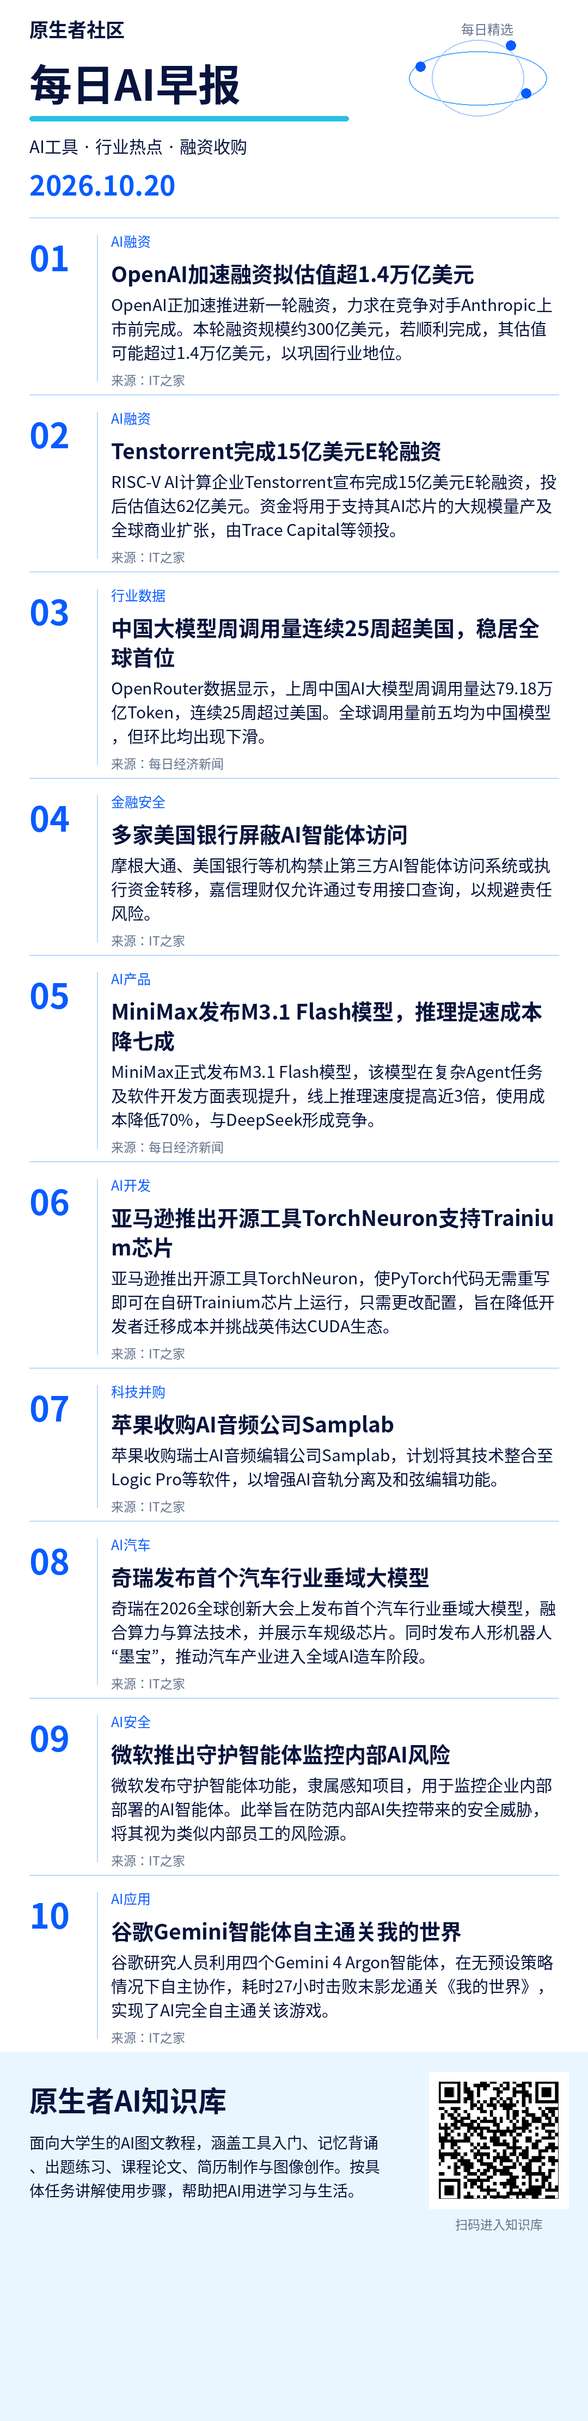
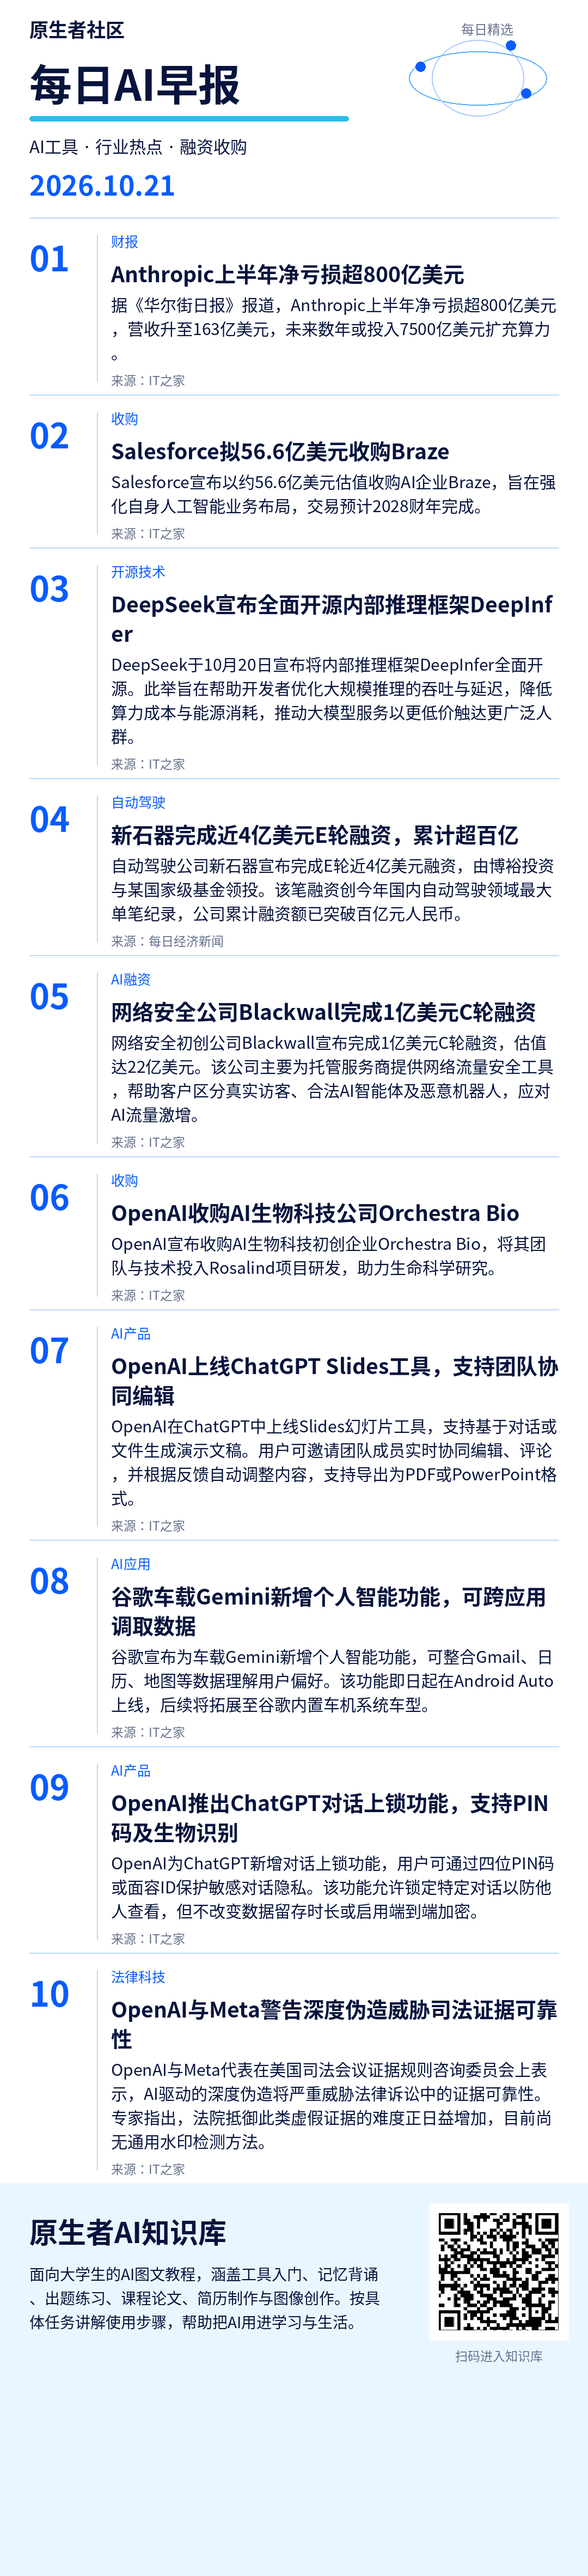
Publish mobile brief 2026-10-21

diff --git a/index.html b/index.html
@@ -2,16 +2,16 @@
 <html lang="zh-CN"><meta charset="utf-8"><meta name="viewport" content="width=device-width, initial-scale=1">
 <title>原生者社区 · 每日AI早报</title>
 <style>body{margin:0;background:#f4f6fa;color:#18263d;font-family:system-ui,sans-serif}main{max-width:680px;margin:auto;padding:24px 16px}h1{font-size:25px;margin:8px 0}p{line-height:1.7}small{color:#59677c}section{background:white;padding:20px;border-radius:16px;margin:20px 0}img{width:100%;height:auto;display:block}a,button{display:inline-block;background:#182f55;color:white;padding:12px 18px;border:0;border-radius:10px;text-decoration:none;font-size:16px}textarea{box-sizing:border-box;width:100%;height:360px;border:1px solid #d5dce7;border-radius:10px;padding:12px;font:16px/1.7 system-ui;resize:vertical}#status{min-height:28px;color:#345786}</style>
-<main><small>原生者社区</small><h1>每日AI早报</h1><p>2026-10-20</p>
+<main><small>原生者社区</small><h1>每日AI早报</h1><p>2026-10-21</p>
 <section><h2>简报图片</h2><p>长按下面的图片，选择“保存图片”，即可发到群里。</p>
 <a href="brief.png" target="_blank" rel="noopener">打开完整图片</a><p></p><img src="brief.png" alt="原生者社区每日简报"></section>
-<section><h2>每日群发内容</h2><p><a href="https://www.ithome.com/1/015/078.htm" target="_blank" rel="noopener">OpenAI加速融资拟估值超1.4万亿美元</a></p><p><a href="https://www.ithome.com/1/015/045.htm" target="_blank" rel="noopener">Tenstorrent完成15亿美元E轮融资</a></p><p><a href="https://wcno0em1rfbm.feishu.cn/wiki/P4hgwzTe2iAjGEkz2o7crPHendg" target="_blank" rel="noopener">实战工坊：产品是最好的媒介</a></p><textarea id="copy" readonly>1. OpenAI加速融资拟估值超1.4万亿美元
-https://www.ithome.com/1/015/078.htm
+<section><h2>每日群发内容</h2><p><a href="https://www.ithome.com/1/015/642.htm" target="_blank" rel="noopener">Anthropic上半年净亏损超800亿美元</a></p><p><a href="https://www.ithome.com/1/015/643.htm" target="_blank" rel="noopener">Salesforce拟56.6亿美元收购Braze</a></p><p><a href="https://wcno0em1rfbm.feishu.cn/wiki/Y2a5wuD2uiW2olkO5LHcLnYin7g" target="_blank" rel="noopener">开源资料库：持续更新的学习资料</a></p><textarea id="copy" readonly>1. Anthropic上半年净亏损超800亿美元
+https://www.ithome.com/1/015/642.htm
 
-2. Tenstorrent完成15亿美元E轮融资
-https://www.ithome.com/1/015/045.htm
+2. Salesforce拟56.6亿美元收购Braze
+https://www.ithome.com/1/015/643.htm
 
-这页提供社团官网、个人作品集和课程复习工具三张项目卡，说明目标、产出物、所需技能及参考教程，适合挑一个项目动手。
-https://wcno0em1rfbm.feishu.cn/wiki/P4hgwzTe2iAjGEkz2o7crPHendg</textarea><p></p>
+这页按论文、资讯、课程和音视频整理资料来源，列出 arXiv、Hugging Face 等入口，方便按需要寻找学习材料。
+https://wcno0em1rfbm.feishu.cn/wiki/Y2a5wuD2uiW2olkO5LHcLnYin7g</textarea><p></p>
 <button id="copyButton" type="button">复制群发内容</button><p id="status" role="status"></p></section></main>
 <script>document.getElementById('copyButton').onclick=async()=>{const t=document.getElementById('copy');const s=document.getElementById('status');try{await navigator.clipboard.writeText(t.value);s.textContent='已复制，可以粘贴到群里。';}catch(e){t.focus();t.select();t.setSelectionRange(0,t.value.length);try{if(!document.execCommand('copy'))throw Error();s.textContent='已复制，可以粘贴到群里。';}catch(e){s.textContent='已选中配文，请长按文字，选择复制。';}}};</script></html>

diff --git a/2026-10-21/a510d4798e44dff5/index.html b/2026-10-21/a510d4798e44dff5/index.html
@@ -1,0 +1,17 @@
+<!doctype html>
+<html lang="zh-CN"><meta charset="utf-8"><meta name="viewport" content="width=device-width, initial-scale=1">
+<title>原生者社区 · 每日AI早报</title>
+<style>body{margin:0;background:#f4f6fa;color:#18263d;font-family:system-ui,sans-serif}main{max-width:680px;margin:auto;padding:24px 16px}h1{font-size:25px;margin:8px 0}p{line-height:1.7}small{color:#59677c}section{background:white;padding:20px;border-radius:16px;margin:20px 0}img{width:100%;height:auto;display:block}a,button{display:inline-block;background:#182f55;color:white;padding:12px 18px;border:0;border-radius:10px;text-decoration:none;font-size:16px}textarea{box-sizing:border-box;width:100%;height:360px;border:1px solid #d5dce7;border-radius:10px;padding:12px;font:16px/1.7 system-ui;resize:vertical}#status{min-height:28px;color:#345786}</style>
+<main><small>原生者社区</small><h1>每日AI早报</h1><p>2026-10-21</p>
+<section><h2>简报图片</h2><p>长按下面的图片，选择“保存图片”，即可发到群里。</p>
+<a href="brief.png" target="_blank" rel="noopener">打开完整图片</a><p></p><img src="brief.png" alt="原生者社区每日简报"></section>
+<section><h2>每日群发内容</h2><p><a href="https://www.ithome.com/1/015/642.htm" target="_blank" rel="noopener">Anthropic上半年净亏损超800亿美元</a></p><p><a href="https://www.ithome.com/1/015/643.htm" target="_blank" rel="noopener">Salesforce拟56.6亿美元收购Braze</a></p><p><a href="https://wcno0em1rfbm.feishu.cn/wiki/Y2a5wuD2uiW2olkO5LHcLnYin7g" target="_blank" rel="noopener">开源资料库：持续更新的学习资料</a></p><textarea id="copy" readonly>1. Anthropic上半年净亏损超800亿美元
+https://www.ithome.com/1/015/642.htm
+
+2. Salesforce拟56.6亿美元收购Braze
+https://www.ithome.com/1/015/643.htm
+
+这页按论文、资讯、课程和音视频整理资料来源，列出 arXiv、Hugging Face 等入口，方便按需要寻找学习材料。
+https://wcno0em1rfbm.feishu.cn/wiki/Y2a5wuD2uiW2olkO5LHcLnYin7g</textarea><p></p>
+<button id="copyButton" type="button">复制群发内容</button><p id="status" role="status"></p></section></main>
+<script>document.getElementById('copyButton').onclick=async()=>{const t=document.getElementById('copy');const s=document.getElementById('status');try{await navigator.clipboard.writeText(t.value);s.textContent='已复制，可以粘贴到群里。';}catch(e){t.focus();t.select();t.setSelectionRange(0,t.value.length);try{if(!document.execCommand('copy'))throw Error();s.textContent='已复制，可以粘贴到群里。';}catch(e){s.textContent='已选中配文，请长按文字，选择复制。';}}};</script></html>

diff --git a/2026-10-21/index.html b/2026-10-21/index.html
@@ -1,0 +1,17 @@
+<!doctype html>
+<html lang="zh-CN"><meta charset="utf-8"><meta name="viewport" content="width=device-width, initial-scale=1">
+<title>原生者社区 · 每日AI早报</title>
+<style>body{margin:0;background:#f4f6fa;color:#18263d;font-family:system-ui,sans-serif}main{max-width:680px;margin:auto;padding:24px 16px}h1{font-size:25px;margin:8px 0}p{line-height:1.7}small{color:#59677c}section{background:white;padding:20px;border-radius:16px;margin:20px 0}img{width:100%;height:auto;display:block}a,button{display:inline-block;background:#182f55;color:white;padding:12px 18px;border:0;border-radius:10px;text-decoration:none;font-size:16px}textarea{box-sizing:border-box;width:100%;height:360px;border:1px solid #d5dce7;border-radius:10px;padding:12px;font:16px/1.7 system-ui;resize:vertical}#status{min-height:28px;color:#345786}</style>
+<main><small>原生者社区</small><h1>每日AI早报</h1><p>2026-10-21</p>
+<section><h2>简报图片</h2><p>长按下面的图片，选择“保存图片”，即可发到群里。</p>
+<a href="brief.png" target="_blank" rel="noopener">打开完整图片</a><p></p><img src="brief.png" alt="原生者社区每日简报"></section>
+<section><h2>每日群发内容</h2><p><a href="https://www.ithome.com/1/015/642.htm" target="_blank" rel="noopener">Anthropic上半年净亏损超800亿美元</a></p><p><a href="https://www.ithome.com/1/015/643.htm" target="_blank" rel="noopener">Salesforce拟56.6亿美元收购Braze</a></p><p><a href="https://wcno0em1rfbm.feishu.cn/wiki/Y2a5wuD2uiW2olkO5LHcLnYin7g" target="_blank" rel="noopener">开源资料库：持续更新的学习资料</a></p><textarea id="copy" readonly>1. Anthropic上半年净亏损超800亿美元
+https://www.ithome.com/1/015/642.htm
+
+2. Salesforce拟56.6亿美元收购Braze
+https://www.ithome.com/1/015/643.htm
+
+这页按论文、资讯、课程和音视频整理资料来源，列出 arXiv、Hugging Face 等入口，方便按需要寻找学习材料。
+https://wcno0em1rfbm.feishu.cn/wiki/Y2a5wuD2uiW2olkO5LHcLnYin7g</textarea><p></p>
+<button id="copyButton" type="button">复制群发内容</button><p id="status" role="status"></p></section></main>
+<script>document.getElementById('copyButton').onclick=async()=>{const t=document.getElementById('copy');const s=document.getElementById('status');try{await navigator.clipboard.writeText(t.value);s.textContent='已复制，可以粘贴到群里。';}catch(e){t.focus();t.select();t.setSelectionRange(0,t.value.length);try{if(!document.execCommand('copy'))throw Error();s.textContent='已复制，可以粘贴到群里。';}catch(e){s.textContent='已选中配文，请长按文字，选择复制。';}}};</script></html>
